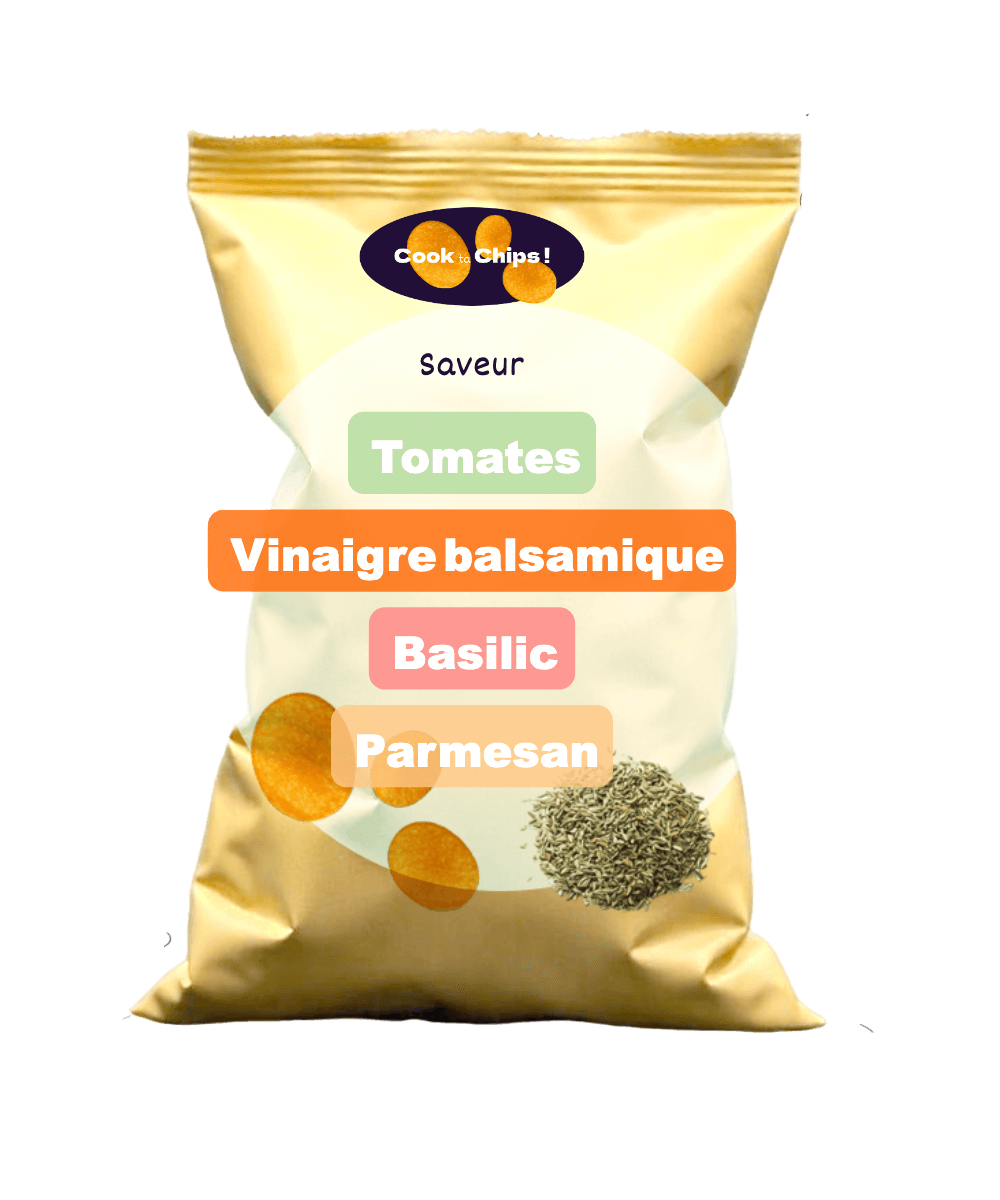
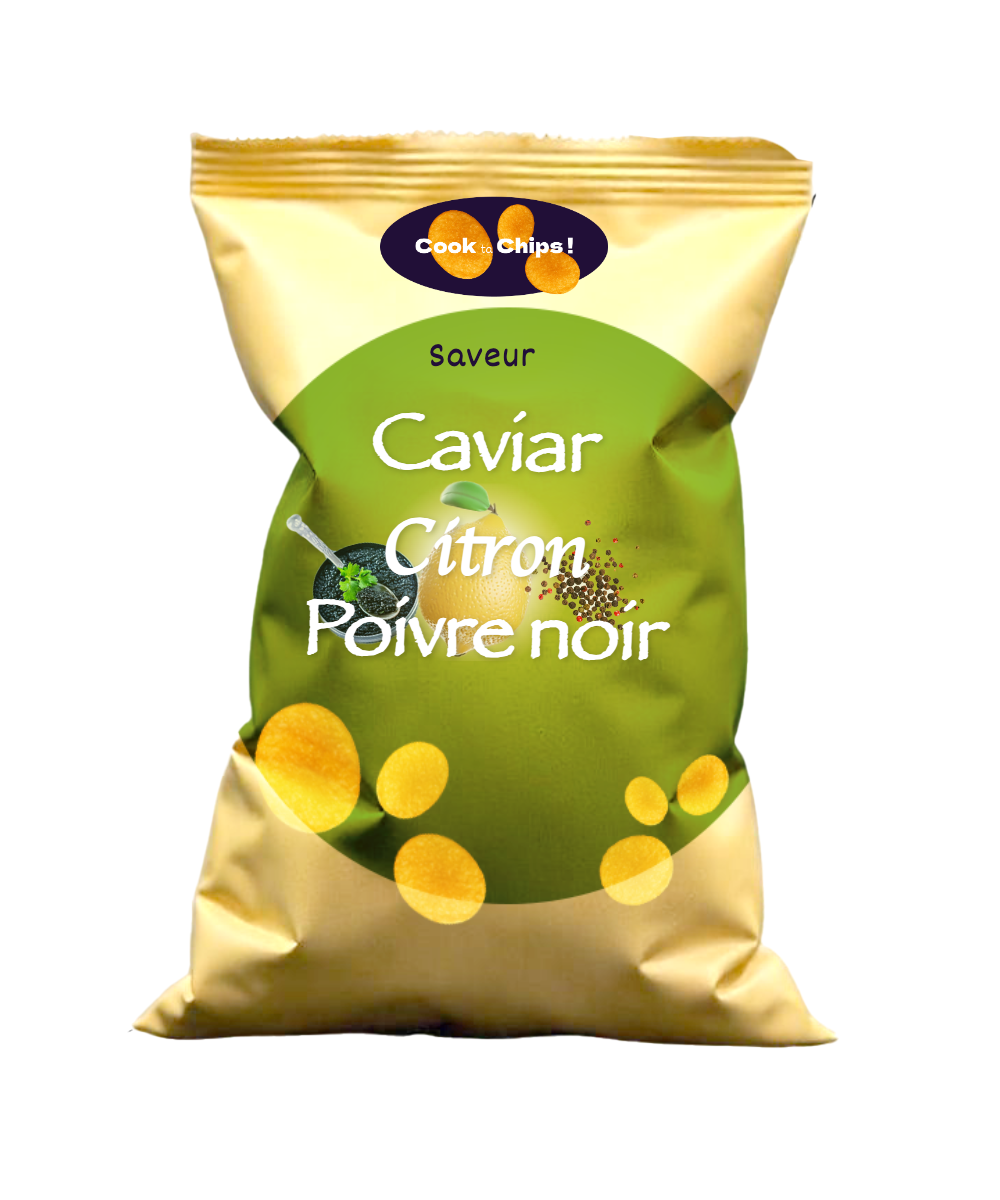
bags of chips ingredients

diff --git a/src/views/HomeView.vue b/src/views/HomeView.vue
@@ -68,13 +68,12 @@
           </div>
 
           <!-- 3D Cookbook -->
-          <div class="dock-item cookbook disabled" title="Coming Soon">
+          <div class="dock-item cookbook" @click="openModal('cookbook')">
             <img
               src="/images/cookbook-3d.png"
               alt="Livre de cuisine"
               class="dock-icon cookbook-icon"
             />
-            <div class="tooltip">Bientôt</div>
           </div>
         </div>
       </div>
@@ -117,13 +116,12 @@
 
     <!-- Loading Screen -->
     <div v-if="loadingState.isLoading" class="loading-overlay" ref="loadingOverlay">
-      <div class="loading-content">
-        <!-- Central Chips Image -->
-        <div class="central-chips">
-          <img src="/images/chips-center.png" alt="Chips" class="chips-image" />
+      <!-- Central Chips Image -->
+      <div class="central-chips">
+        <img src="/images/chips-center.png" alt="Chips" class="chips-image" />
 
-          <!-- Rotating Icons Around Chips -->
-          <div class="rotating-icons">
+        <!-- Rotating Icons Around Chips -->
+        <!-- <div class="rotating-icons">
             <div class="rotating-icon icon-1">
               <img src="/images/chef-hat-3d.png" alt="Chef Hat" />
             </div>
@@ -136,11 +134,11 @@
             <div class="rotating-icon icon-4">
               <img src="/images/pepper-3d.png" alt="Pepper" />
             </div>
-          </div>
-        </div>
-
+          </div> -->
+      </div>
+      <div class="loading-content">
         <!-- Loading Text -->
-        <p class="loading-text">Un petit temps de cuisson puis tout est bon</p>
+        <p class="loading-text">Un petit temps de cuisson puis tout est bon !</p>
 
         <!-- Loading Dots -->
         <div class="loading-dots">
@@ -187,7 +185,7 @@
         <!-- Chips Container for Sharing/Download -->
         <div class="chips-container" id="chips-container">
           <!-- Top Text -->
-          <div class="top-text">J'ai Cook ma Chips !</div>
+          <div class="top-text">Mes Chips !</div>
           <!-- Decorative Potato Images -->
           <div class="decoration-chips left-top">
             <img src="/images/potato.svg" alt="Potato" width="60" height="40" />
@@ -249,7 +247,10 @@
                   :key="`icon-${ingredient.id}`"
                   :src="ingredient.icon"
                   :alt="ingredient.name"
-                  class="ingredient-icon"
+                  :class="[
+                    'ingredient-icon',
+                    { 'cookbook-ingredient': ingredient.category === 'cookbook' },
+                  ]"
                   :style="getIngredientIconStyle(index)"
                 />
               </div>
@@ -390,6 +391,7 @@ const selectedBagImage = computed(() => {
     meat: ['bag-meat-1.png', 'bag-meat-2.png', 'bag-meat-3.png'],
     sauce: ['bag-yellow-1.png', 'bag-yellow-2.png', 'bag-yellow-3.png'],
     chef: ['bag-white-1.png', 'bag-white-2.png', 'bag-white-3.png'], // fallback for chef category
+    cookbook: ['bag-cook.png'], // fallback for chef category
   }
 
   // Randomly select one of the 3 variants
@@ -402,6 +404,66 @@ const selectedBagImage = computed(() => {
 
 // Ingredient data for each category
 const ingredientData = {
+  cookbook: {
+    title: 'Plats traditionnels',
+    image: '/images/cookbook-3d.png',
+    items: [
+      {
+        id: 'cookbook-1',
+        name: 'Bœuf bourguignon',
+        category: 'cookbook',
+        icon: '/images/ingredients/boeuf-bourguignon.png',
+      },
+      {
+        id: 'cookbook-2',
+        name: 'Blanquette de veau',
+        category: 'cookbook',
+        icon: '/images/ingredients/blanquette-de-veau.png',
+      },
+      {
+        id: 'cookbook-3',
+        name: 'Cassoulet',
+        category: 'cookbook',
+        icon: '/images/ingredients/cassoulet.png',
+      },
+      {
+        id: 'cookbook-4',
+        name: 'Bouillabaisse',
+        category: 'cookbook',
+        icon: '/images/ingredients/bouillabaisse.png',
+      },
+      {
+        id: 'cookbook-5',
+        name: "Canard à l'orange",
+        category: 'cookbook',
+        icon: '/images/ingredients/canard-a-l-orange.png',
+      },
+      {
+        id: 'cookbook-6',
+        name: 'Fondue savoyarde',
+        category: 'cookbook',
+        icon: '/images/ingredients/fondue-savoyarde.png',
+      },
+      {
+        id: 'cookbook-7',
+        name: 'Quiche lorraine',
+        category: 'cookbook',
+        icon: '/images/ingredients/quiche-lorraine.png',
+      },
+      {
+        id: 'cookbook-8',
+        name: 'Couscous',
+        category: 'cookbook',
+        icon: '/images/ingredients/couscous.png',
+      },
+      {
+        id: 'cookbook-9',
+        name: 'Tajine',
+        category: 'cookbook',
+        icon: '/images/ingredients/tajine.png',
+      },
+    ],
+  },
   chef: {
     title: 'Chef Signature',
     image: '/images/chef-cook.png',
@@ -784,9 +846,9 @@ const randomCombination = () => {
   // Clear current selection
   selectedIngredients.value = []
 
-  // Get random ingredients from each category (excluding chef)
+  // Get random ingredients from each category (excluding chef and cookbook)
   Object.keys(ingredientData).forEach((category) => {
-    if (category !== 'chef') {
+    if (category !== 'chef' && category !== 'cookbook') {
       const items = ingredientData[category].items
       if (items.length > 0) {
         const randomIndex = Math.floor(Math.random() * items.length)
@@ -819,7 +881,16 @@ const selectIngredient = (ingredient) => {
   const isAlreadySelected = selectedIngredients.value.some((item) => item.id === ingredient.id)
 
   if (!isAlreadySelected) {
-    selectedIngredients.value.push(ingredient)
+    // For cookbook category, only allow one selection (replace previous cookbook selection)
+    if (ingredient.category === 'cookbook') {
+      selectedIngredients.value = selectedIngredients.value.filter(
+        (item) => item.category !== 'cookbook',
+      )
+      selectedIngredients.value.push(ingredient)
+    } else {
+      // For other categories, allow multiple selections
+      selectedIngredients.value.push(ingredient)
+    }
   }
 }
 
@@ -951,7 +1022,7 @@ const startCooking = () => {
         })
       }
     })
-  }, 4200)
+  }, 4000)
 }
 </script>
 
@@ -1260,29 +1331,30 @@ const startCooking = () => {
   align-items: center;
   justify-content: center;
   text-align: center;
+  z-index: 1;
 }
 
 /* Central Chips Container */
 .central-chips {
-  position: relative;
   margin-bottom: 3rem;
 }
 
 .chips-image {
-  width: 100%;
-  height: 100%;
-  object-fit: contain;
-  z-index: 1;
-  position: relative;
+  width: 40%;
+  object-fit: fill;
+  position: absolute;
+  top: 50%;
+  left: 50%;
+  transform: translate(-50%, -50%);
   animation: rotateChips 250s forwards infinite;
 }
 
 @keyframes rotateChips {
   0% {
-    transform: rotate(0deg);
+    transform: translate(-50%, -50%) rotate(0deg);
   }
   100% {
-    transform: rotate(3600deg);
+    transform: translate(-50%, -50%) rotate(3600deg);
   }
 }
 
@@ -1346,8 +1418,8 @@ const startCooking = () => {
 }
 
 .dot {
-  width: 30px;
-  height: 30px;
+  width: 48px;
+  height: 48px;
   opacity: 0.3;
   animation: loadingDots 1.5s ease-in-out infinite;
 }
@@ -1577,7 +1649,7 @@ const startCooking = () => {
   align-items: center;
   justify-content: flex-start;
   text-align: center;
-  padding: 0rem 0.5rem 1rem 0.5rem;
+  padding: 0rem 0.5rem 1rem 1.75rem;
   position: relative;
   z-index: 1;
   height: 100%;
@@ -1596,53 +1668,60 @@ const startCooking = () => {
 }
 
 .bag-flavor {
-  max-width: 250px;
+  max-width: 210px;
   word-wrap: break-word;
   margin-bottom: 1rem;
   display: flex;
   flex-direction: column;
   align-items: center;
   justify-content: center;
+  flex-wrap: wrap;
 
   .ingredient-tag {
-    white-space: nowrap;
     font-family: 'Dela Gothic One', 'Arial Black', sans-serif;
-    font-size: 2.5rem;
+    font-size: 2.3rem;
     font-weight: 900;
+    line-height: 1.2;
     text-align: center;
     color: white;
     text-shadow: 1px 1px 6px rgba(0, 0, 0, 0.2);
     mix-blend-mode: difference;
   }
   .ingredient-chef {
-    font-family: cursive;
+    font-family: 'Quintessential', serif;
+    white-space: normal;
+    font-size: 1.8rem;
+    text-shadow: 1px 1px 6px rgba($color: #ceba0e, $alpha: 0.2);
+  }
+  .ingredient-cookbook {
+    font-family: 'Quintessential', serif;
     white-space: normal;
     font-size: 1.8rem;
     text-shadow: 1px 1px 6px rgba($color: #ceba0e, $alpha: 0.2);
   }
 
   .ingredient-vegetables {
-    font-family: cursive;
+    font-family: 'Oregano', cursive;
     // color: #b0db9c;
   }
 
   .ingredient-spices {
-    font-family: fantasy;
+    font-family: 'Indie Flower', cursive;
     // color: #ff8282;
   }
 
   .ingredient-dairy {
-    font-family: fantasy;
+    font-family: 'Oregano', cursive;
     // color: #ffc785;
   }
 
   .ingredient-meat {
-    font-family: fantasy;
+    font-family: 'Oregano', cursive;
     // color: #e78f81;
   }
 
   .ingredient-sauce {
-    font-family: cursive;
+    font-family: 'Indie Flower', cursive;
     // color: #ff6500;
   }
 }
@@ -1686,17 +1765,22 @@ const startCooking = () => {
   transform: translate(-50%, -50%);
   pointer-events: none;
   display: flex;
-  width: 100%;
+  width: 230px;
   align-items: center;
   justify-content: center;
   flex-wrap: wrap;
   gap: 0.2px;
+  background: radial-gradient(circle, rgba(247, 243, 223, 0.8) 20%, rgba(251, 219, 147, 0) 40%);
 }
 
 .ingredient-icon {
-  width: 50px;
+  width: 60px;
   object-fit: contain;
   opacity: 0.8;
+}
+
+.ingredient-icon.cookbook-ingredient {
+  width: 140px;
 }
 /* Top Text */
 .top-text {

diff --git a/index.html b/index.html
@@ -5,6 +5,12 @@
     <link rel="icon" href="/favicon.ico" />
     <meta name="viewport" content="width=device-width, initial-scale=1.0" />
     <title>Cook ta Chips</title>
+    <link rel="preconnect" href="https://fonts.googleapis.com" />
+    <link rel="preconnect" href="https://fonts.gstatic.com" crossorigin />
+    <link
+      href="https://fonts.googleapis.com/css2?family=Indie+Flower&family=Oregano:ital@0;1&family=Quintessential&display=swap"
+      rel="stylesheet"
+    />
   </head>
   <body>
     <div id="app"></div>
